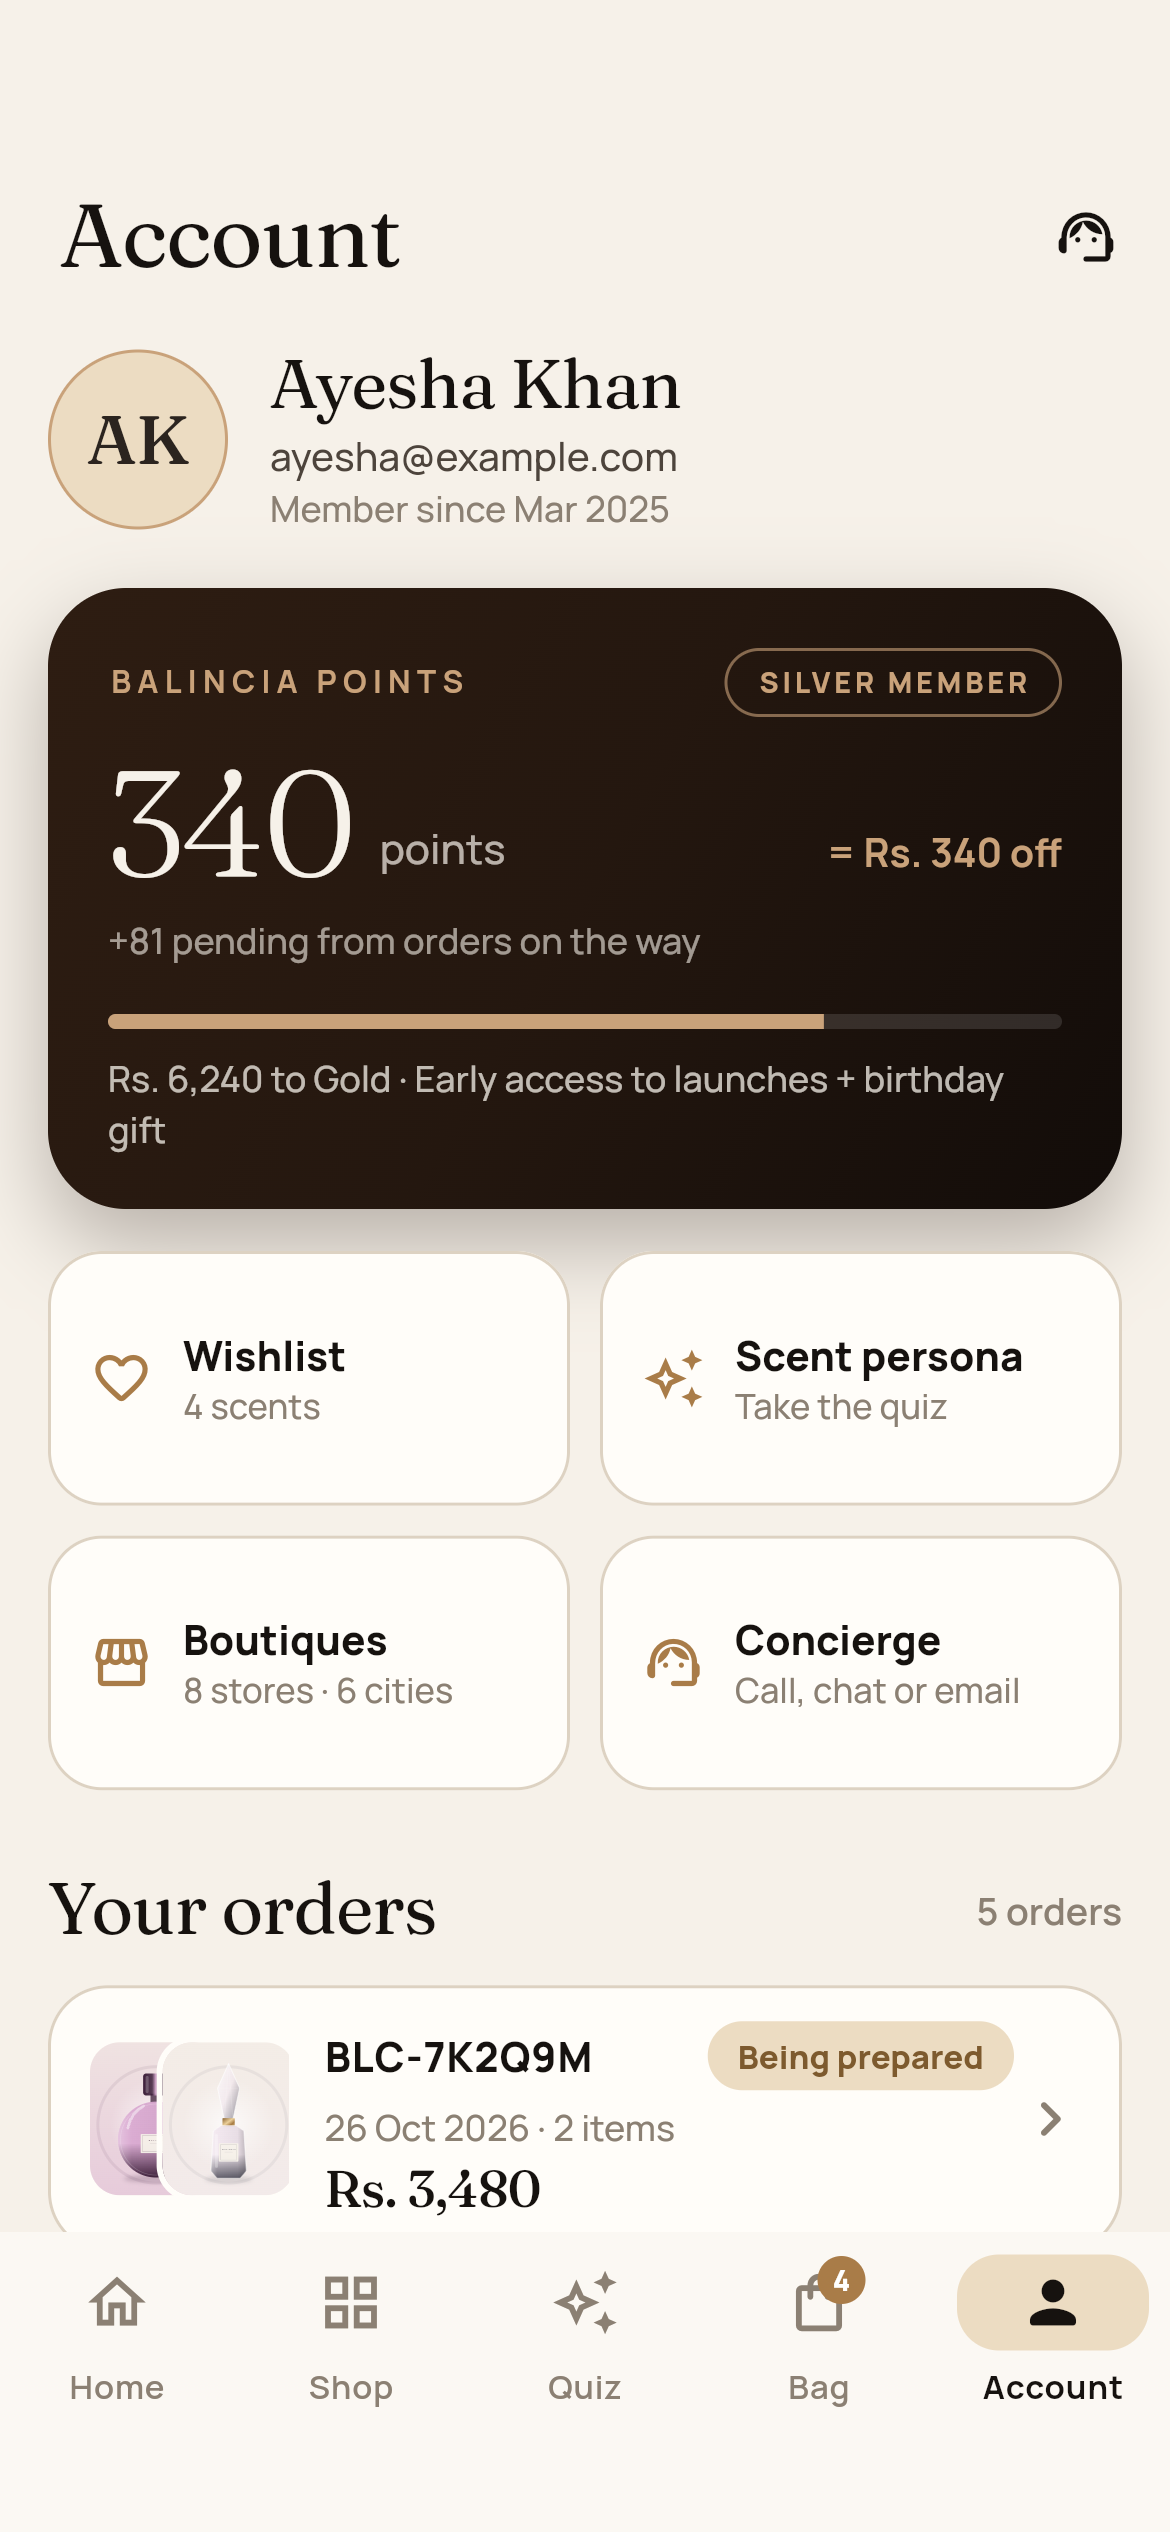
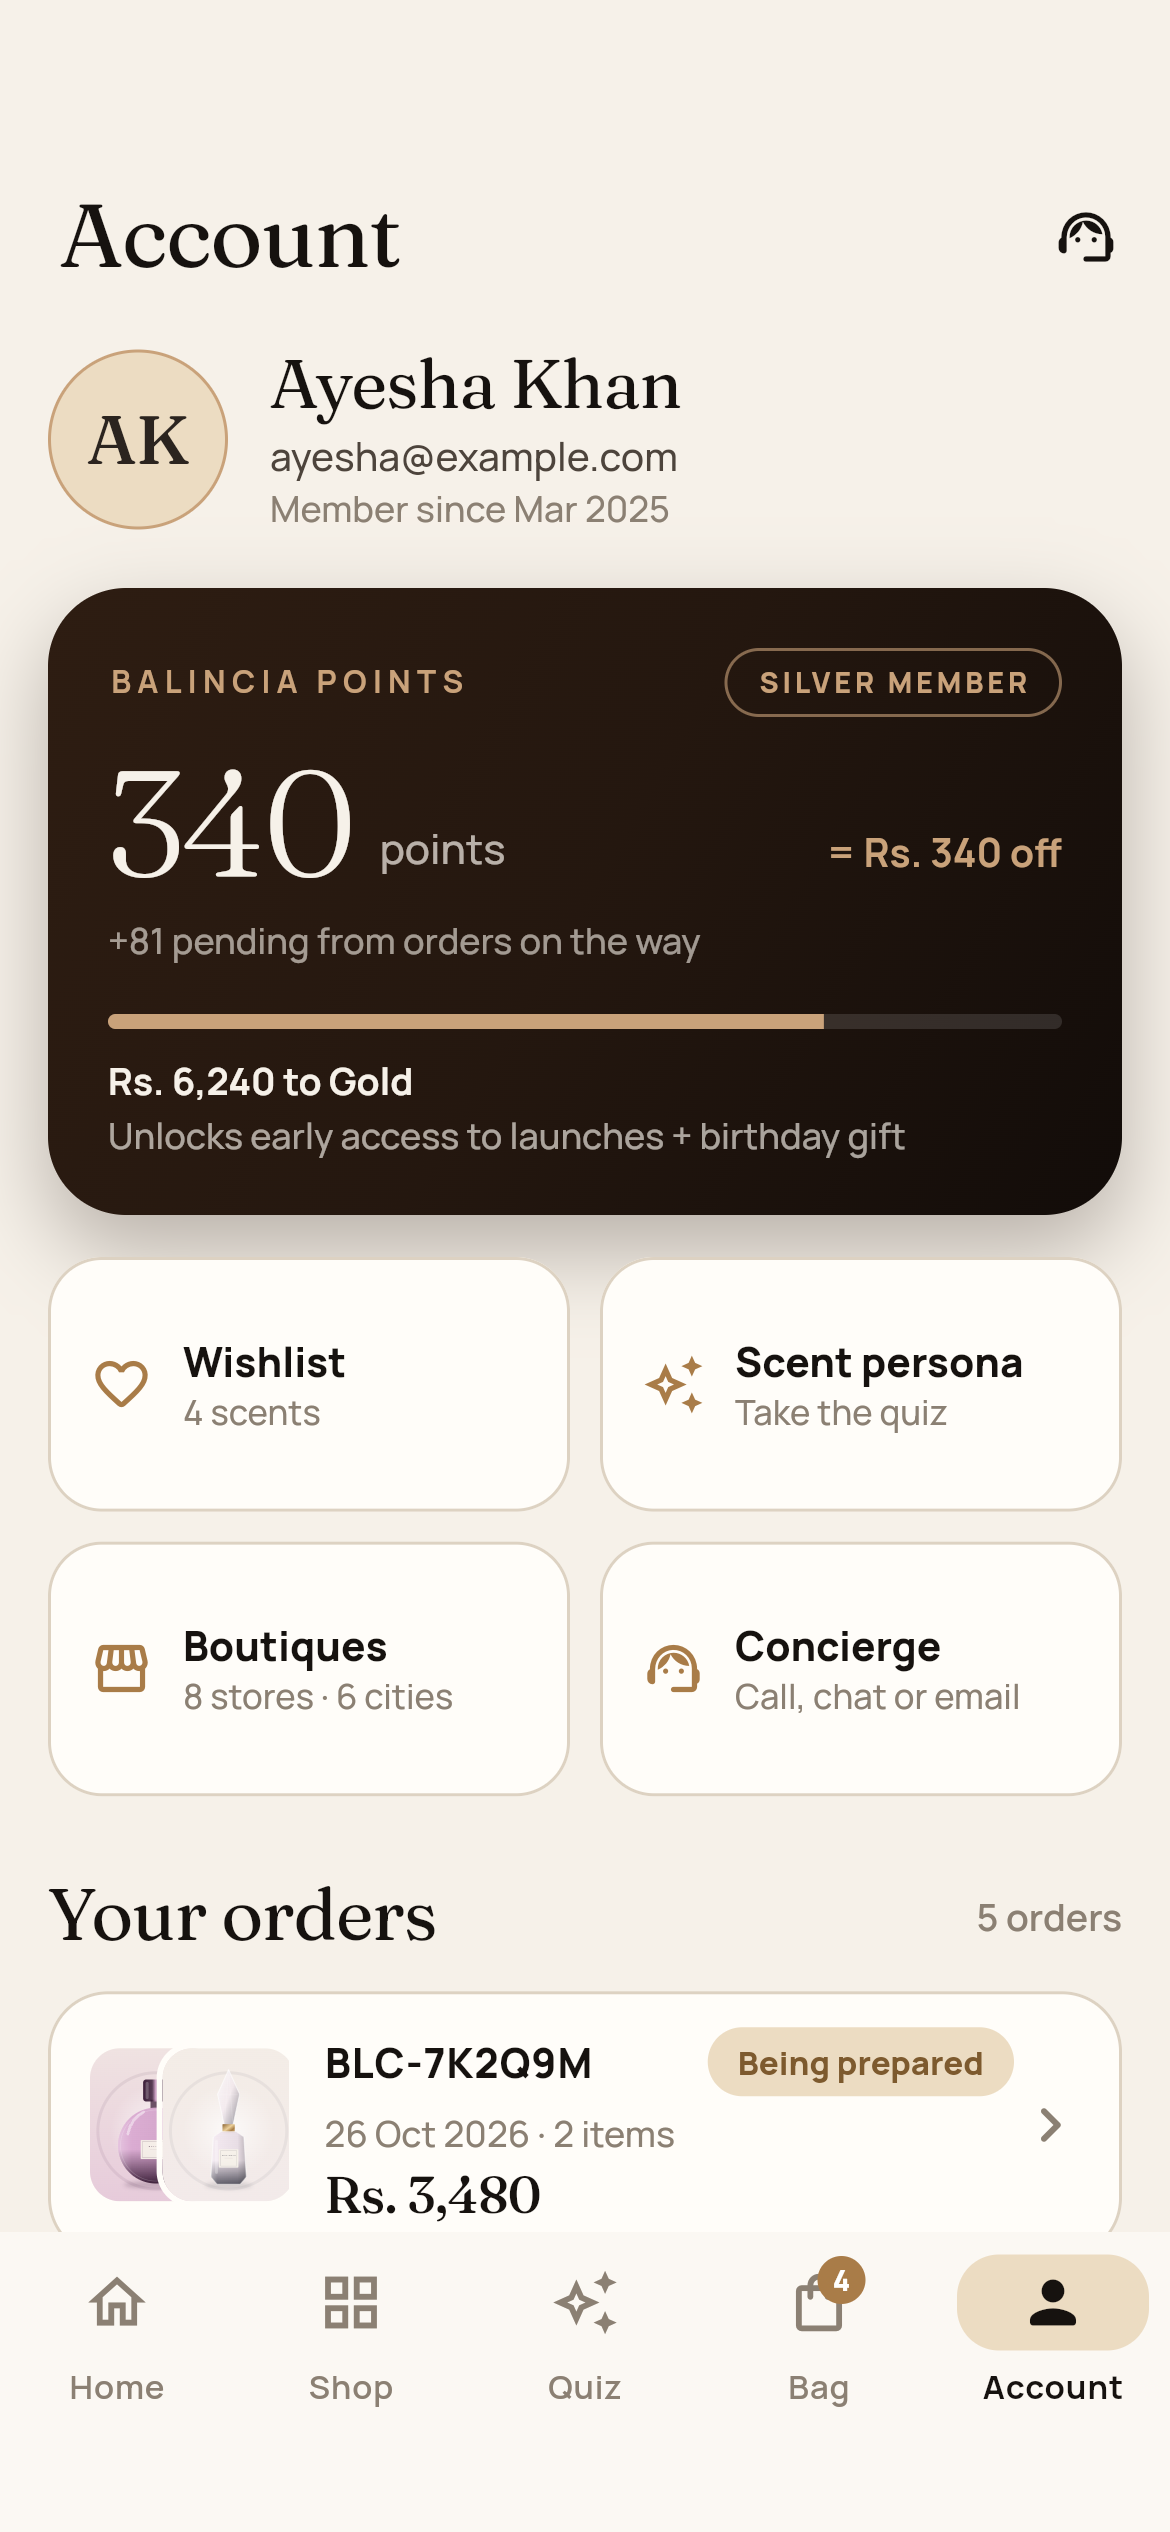
Complete Balincia app: painted bottles, filters, quiz, bag, checkout, account and screenshots

diff --git a/lib/screens/account_screen.dart b/lib/screens/account_screen.dart
@@ -262,10 +262,13 @@ class _LoyaltyCard extends StatelessWidget {
           ),
           const SizedBox(height: 8),
           Text(
-            next == null
-                ? 'You’ve reached Noir — ${tier.perk.toLowerCase()}.'
-                : '${formatPrice(next.min - account.lifetimeSpend)} to ${next.name} · ${next.perk}',
-            style: AppText.sans(12, color: BrandColors.paper.withValues(alpha: 0.75), height: 1.4),
+            next == null ? 'You’ve reached Noir' : '${formatPrice(next.min - account.lifetimeSpend)} to ${next.name}',
+            style: AppText.sans(12.5, weight: FontWeight.w700, color: BrandColors.paper),
+          ),
+          const SizedBox(height: 2),
+          Text(
+            next == null ? tier.perk : 'Unlocks ${next.perk.toLowerCase()}',
+            style: AppText.sans(12, color: BrandColors.paper.withValues(alpha: 0.65), height: 1.4),
           ),
         ],
       ),
